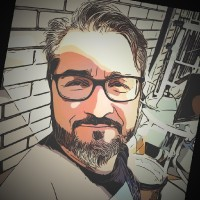
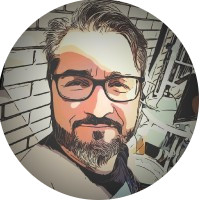
.

Changed region(s): [[0.51, 0.0, 1.0, 1.0], [0.0, 0.6, 0.48, 1.0], [0.0, 0.0, 0.42, 0.39]]

diff --git a/README.md b/README.md
@@ -2,7 +2,7 @@
 <html>
 <br>
 <p align="left">
-<a href="https://github.com/pmeleroa"><img src="/images/me.jpeg" height="auto" width="200" style="border-radius:50%"></a>
+<a href="https://github.com/pmeleroa"><img src="/images/me.jpeg" height="auto" width="200"></a>
 
 <p>
 </html>
@@ -36,7 +36,7 @@ Acostumbrado a trabajar en **entornos multidisciplinares** y de **constante camb
 > - :scream: Compartir **inquietudes** existenciales ! <br><br>
 >  *No tengo miedo de hablar y decir las cosas que quiero, o hacer las cosas que quiero. As&iacute; que creo que al final ser natural y ser realmente genuino es lo que gana, y espero que salga en mi "code"*
 > <br><br>- Pablo Melero Alonso<br><br>
-> <img src="images/quote.png" style="width:150px">
+> <img src="images/quote.png" style="width:300">
 
 
 
